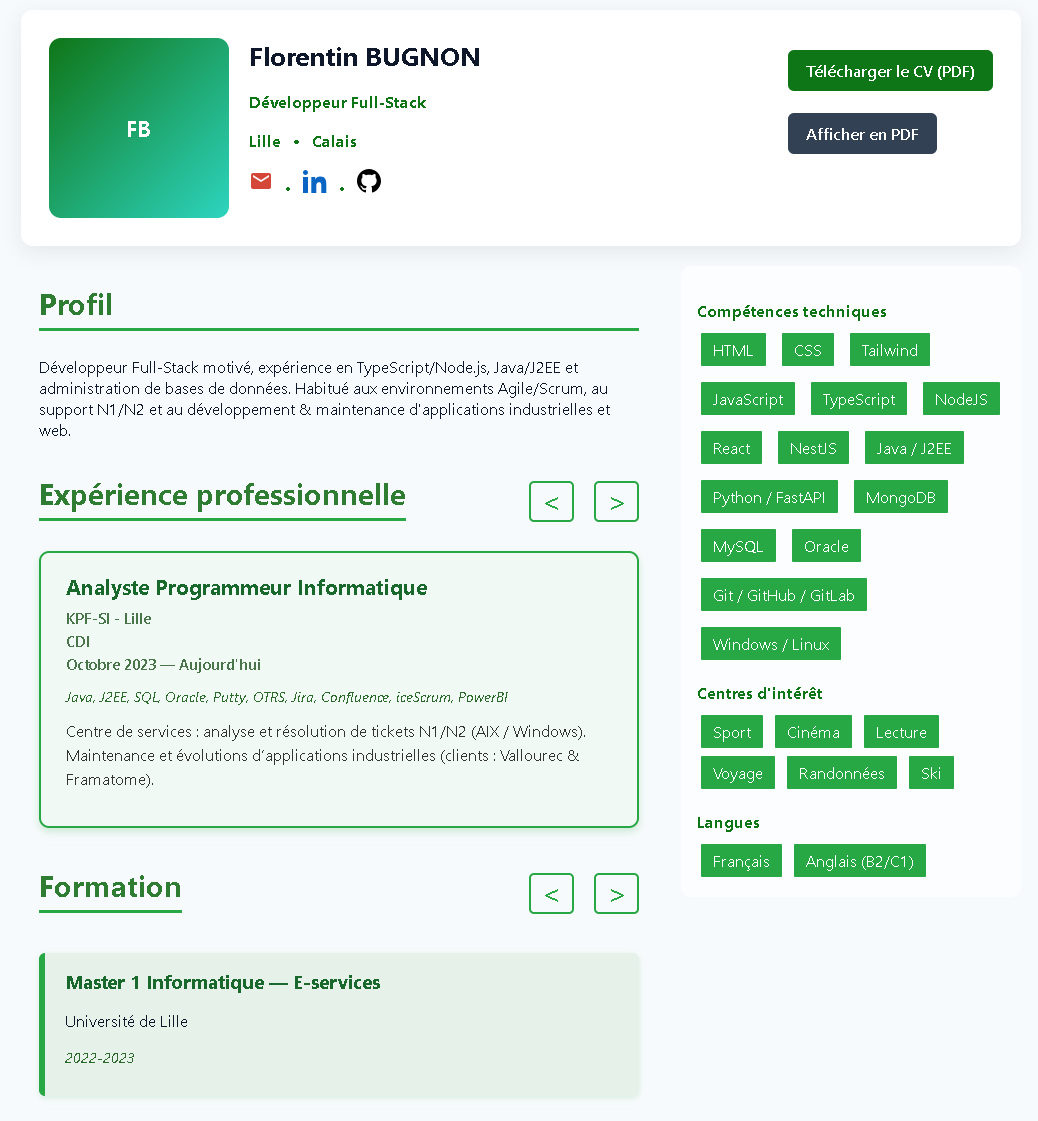
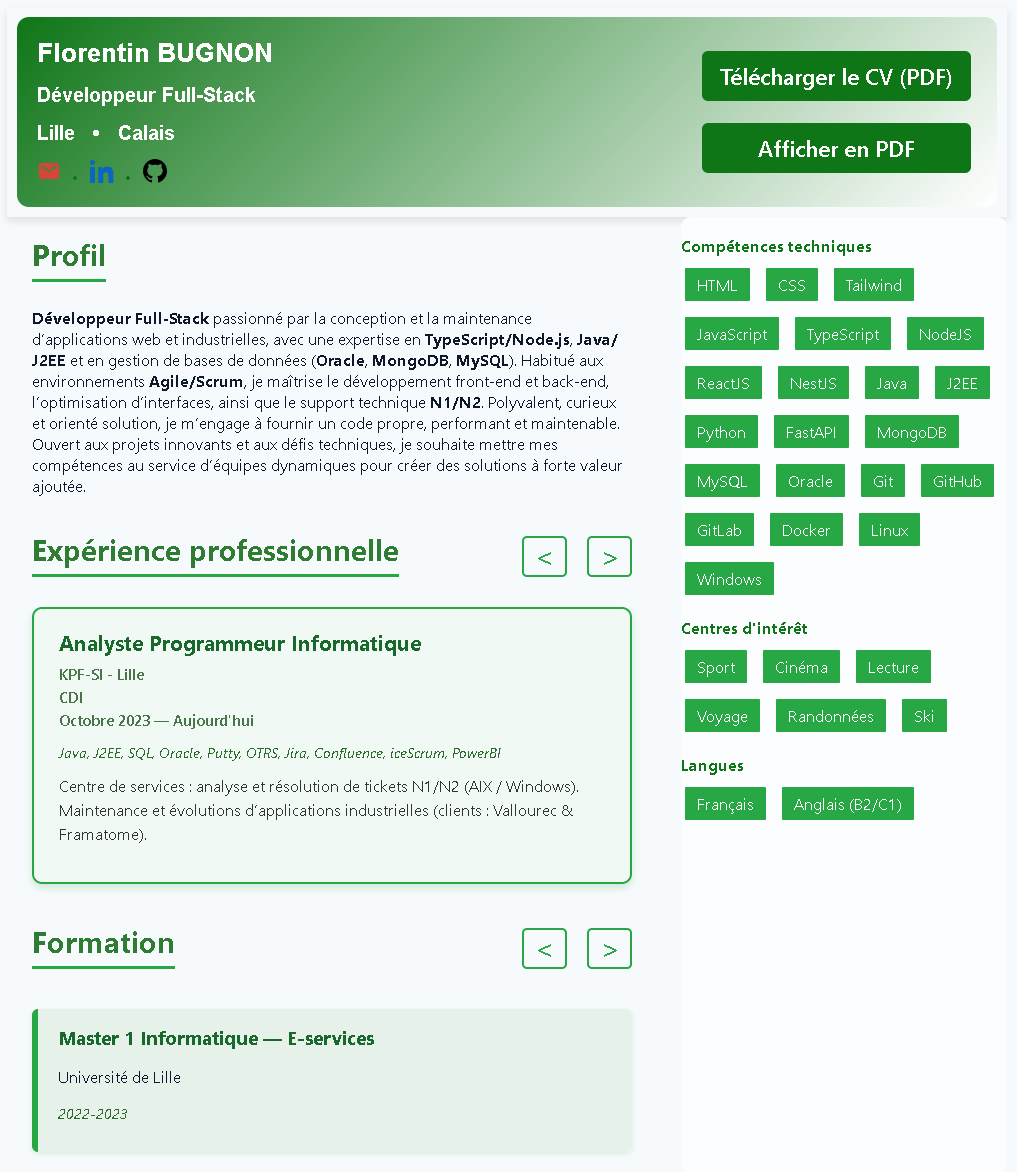
Modification de la mise en forme

Changed region(s): [[0.0, 0.0, 1.0, 0.9991], [0.4877, 0.4371, 0.6401, 0.4996], [0.6096, 0.4996, 0.6401, 0.7493]]

diff --git a/index.html b/index.html
@@ -18,12 +18,11 @@
   <div class="container">
     <div class="card">
       <header class="header">
-        <div class="avatar" aria-hidden="true">FB</div>
         <div class="general-informations">
           <h1>Florentin BUGNON</h1>
-          <h2 id="job-title">Développeur Full-Stack</p>
-          <h2 id="localisation">Lille &nbsp; • &nbsp; Calais</p>
-          <h2 class="meta contact">
+          <h3 id="job-title">Développeur Full-Stack</h3>
+          <h3 id="localisation">Lille &nbsp; • &nbsp; Calais</h3>
+          <div class="meta contact">
             <a href="mailto:florentin.bugnon@outlook.fr" target="_blank" rel="noopener" aria-label="Envoyer un email à florentin.bugnon@outlook.fr">
                 <!-- Logo mail SVG -->
                 <svg xmlns="http://www.w3.org/2000/svg" width="24" height="24" fill="#D44638" viewBox="0 0 24 24" aria-hidden="true">
@@ -44,10 +43,10 @@
                     <path d="M12 0C5.37 0 0 5.373 0 12c0 5.303 3.438 9.8 8.205 11.387.6.113.82-.258.82-.577 0-.285-.01-1.04-.015-2.04-3.338.724-4.042-1.61-4.042-1.61-.546-1.387-1.333-1.757-1.333-1.757-1.09-.745.083-.73.083-.73 1.205.084 1.84 1.237 1.84 1.237 1.07 1.834 2.807 1.304 3.492.997.108-.775.418-1.305.76-1.605-2.665-.3-5.467-1.335-5.467-5.932 0-1.31.467-2.382 1.236-3.222-.123-.303-.536-1.523.117-3.176 0 0 1.008-.322 3.3 1.23a11.52 11.52 0 013.003-.403c1.02.004 2.045.138 3.003.404 2.29-1.553 3.296-1.23 3.296-1.23.655 1.653.242 2.873.12 3.176.77.84 1.235 1.912 1.235 3.222 0 4.61-2.807 5.628-5.48 5.922.43.37.815 1.103.815 2.222 0 1.604-.015 2.896-.015 3.286 0 .32.216.694.825.576C20.565 21.795 24 17.297 24 12c0-6.627-5.373-12-12-12z"/>
                 </svg>
             </a>
-        </h2>
+          </div>
         </div>
         <aside class="download-section">
-            <a class="download" href="cv.pdf" download>Télécharger le CV (PDF)</a>
+            <a class="download" href="documents/CV.pdf" download>Télécharger le CV (PDF)</a>
             <a class="download print-btn" href="#" onclick="window.print()">Afficher en PDF</a>
         </aside>
         </div>
@@ -58,8 +57,14 @@
           <section id="profil">
             <h2>Profil</h2>
             <p>
-              Développeur Full-Stack motivé, expérience en TypeScript/Node.js, Java/J2EE et administration de bases de données.
-              Habitué aux environnements Agile/Scrum, au support N1/N2 et au développement & maintenance d'applications industrielles et web.
+              <strong>Développeur Full-Stack</strong> passionné par la conception et la maintenance d’applications web et industrielles,
+              avec une expertise en <strong>TypeScript/Node.js</strong>, <strong>Java/J2EE</strong> et en gestion de bases de données
+              (<strong>Oracle</strong>, <strong>MongoDB</strong>, <strong>MySQL</strong>).
+              Habitué aux environnements <strong>Agile/Scrum</strong>, je maîtrise le développement front-end et back-end,
+              l’optimisation d’interfaces, ainsi que le support technique <strong>N1/N2</strong>.
+              Polyvalent, curieux et orienté solution, je m’engage à fournir un code propre, performant et maintenable.
+              Ouvert aux projets innovants et aux défis techniques, je souhaite mettre mes compétences au service d’équipes dynamiques
+              pour créer des solutions à forte valeur ajoutée.
             </p>
           </section>
 
@@ -130,44 +135,53 @@
             </section>
         </main>
 
-        <!-- Colonne droite -->
-        <aside>
-          <div class="right-card">
-            <h2>Compétences techniques</h2>
-            <div class="skills">
-              <span class="chip">HTML</span>
-              <span class="chip">CSS</span>
-              <span class="chip">Tailwind</span>
-              <span class="chip">JavaScript</span>
-              <span class="chip">TypeScript</span>
-              <span class="chip">NodeJS</span>
-              <span class="chip">React</span>
-              <span class="chip">NestJS</span>
-              <span class="chip">Java / J2EE</span>
-              <span class="chip">Python / FastAPI</span>
-              <span class="chip">MongoDB</span>
-              <span class="chip">MySQL</span>
-              <span class="chip">Oracle</span>
-              <span class="chip">Git / GitHub / GitLab</span>
-              <span class="chip">Windows / Linux</span>
+        <aside id="right-card">
+            <div id="skills">
+              <h2>Compétences techniques</h2>
+              <div id="skills-list" class="items-list">
+                <span class="chip">HTML</span>
+                <span class="chip">CSS</span>
+                <span class="chip">Tailwind</span>
+                <span class="chip">JavaScript</span>
+                <span class="chip">TypeScript</span>
+                <span class="chip">NodeJS</span>
+                <span class="chip">ReactJS</span>
+                <span class="chip">NestJS</span>
+                <span class="chip">Java</span>
+                <span class="chip">J2EE</span>
+                <span class="chip">Python</span>
+                <span class="chip">FastAPI</span>
+                <span class="chip">MongoDB</span>
+                <span class="chip">MySQL</span>
+                <span class="chip">Oracle</span>
+                <span class="chip">Git</span>
+                <span class="chip">GitHub</span>
+                <span class="chip">GitLab</span>
+                <span class="chip">Docker</span>
+                <span class="chip">Linux</span>
+                <span class="chip">Windows</span>
+              </div>
             </div>
 
-            <h2>Centres d'intérêt</h2>
-            <div class="interests">
-              <span class="chip">Sport</span>
-              <span class="chip">Cinéma</span>
-              <span class="chip">Lecture</span>
-              <span class="chip">Voyage</span>
-              <span class="chip">Randonnées</span>
-              <span class="chip">Ski</span>
+            <div id="interests-">
+              <h2>Centres d'intérêt</h2>
+              <div id="interests-list" class="items-list">
+                <span class="chip">Sport</span>
+                <span class="chip">Cinéma</span>
+                <span class="chip">Lecture</span>
+                <span class="chip">Voyage</span>
+                <span class="chip">Randonnées</span>
+                <span class="chip">Ski</span>
+              </div>
             </div>
-
-            <h2>Langues</h2>
-            <div class="langues">
-              <span class="chip">Français</span>
-              <span class="chip">Anglais (B2/C1)</span>
+            
+            <div id="langues">
+              <h2>Langues</h2>
+              <div id="langues-list" class="items-list">
+                <span class="chip">Français</span>
+                <span class="chip">Anglais (B2/C1)</span>
+              </div>
             </div>
-          </div>
         </aside>
       </div>
 

diff --git a/style/header.css b/style/header.css
@@ -1,26 +1,49 @@
+.card {
+  padding: 10px;
+  box-shadow: 0 4px 8px rgba(0, 0, 0, 0.1);
+}
+
 .header {
   display: flex;
-  align-items: flex-start;      
-  justify-content: space-between; /* espace entre avatar+infos et download */
-  gap: 20px;
-  flex-wrap: wrap;          /* pour gérer petits écrans */
+  align-items: center; 
+  justify-content: space-between; 
+  flex-wrap: wrap;          
+  border-radius:12px;
+  background:linear-gradient(135deg,var(--accent),white);
+  color:white;
+  font-weight:700;
+  font-size:22px;
 }
 
 .general-informations {
-  flex: 1 1 auto;
+  flex: 1 1 auto; 
+  margin-right: 20px; 
+  white-space: nowrap; 
+  color: white; 
+  font-family: 'Inter', sans-serif; 
+  text-align: left; 
+  padding: 20px; 
+  border-radius: 8px; 
+}
+
+.general-informations h3{
+  margin:15px 0 15px;
+  font-size:20px;
+  color:var(white);
 }
 
 .download-section {
   display: flex;
-  flex-direction: column;  /* empile les boutons verticalement */
-  align-items: flex-start;   /* aligne à droite */
-  gap: 10px;               /* espace entre boutons */
-  flex-shrink: 0;          /* ne pas rétrécir */
+  flex-direction: column;  
+  text-align: center;
+  gap: 10px;               
+  flex-shrink: 0;          
+  padding: 20px; 
 }
 
 .download {
   display: inline-block;
-  margin-top: 12px;
+  margin: 6px;
   padding: 10px 18px;
   border-radius: 6px;
   background: var(--accent, #28a745);
@@ -31,26 +54,9 @@
   transition: background-color 0.3s ease;
 }
 
-
 .download:hover {
   background-color: #1e7e34;
 }
 
-.print-btn{
-  background:#334155;
-}
-
-.avatar{
-  width:180px;
-  height:180px;
-  border-radius:12px;
-  background:linear-gradient(135deg,var(--accent),#2dd4bf);
-  display:flex;
-  align-items:center;
-  justify-content:center;
-  color:white;
-  font-weight:700;
-  font-size:22px;
-}
 
 .contact a{color:var(--accent);text-decoration:none;}

diff --git a/script/experiences.js b/script/experiences.js
@@ -1,23 +1,26 @@
-const experiences = document.querySelectorAll('#experience .experiences');
-const previousExperienceBouton = document.getElementById('previousExperience');
-const nextExperienceBouton = document.getElementById('nextExperience');
-let currentExperienceIndex = 0;
+document.addEventListener("DOMContentLoaded", () => {
+  const experiences = document.querySelectorAll('#experience .experiences');
+  const previousExperienceBouton = document.getElementById('previousExperience');
+  const nextExperienceBouton = document.getElementById('nextExperience');
+  let currentExperienceIndex = 0;
 
-function showExperience(index) {
-  experiences.forEach((experience, i) => {
-    experience.classList.toggle('active', i === index);
+  function showExperience(index) {
+    experiences.forEach((experience, i) => {
+      experience.classList.toggle('active', i === index);
+    });
+  }
+
+  previousExperienceBouton.addEventListener('click', () => {
+    currentExperienceIndex = (currentExperienceIndex - 1 + experiences.length) % experiences.length;
+    showExperience(currentExperienceIndex);
   });
-}
 
-previousExperienceBouton.addEventListener('click', () => {
-  currentExperienceIndex = (currentExperienceIndex - 1 + experiences.length) % experiences.length;
+  nextExperienceBouton.addEventListener('click', () => {
+    currentExperienceIndex = (currentExperienceIndex + 1) % experiences.length;
+    showExperience(currentExperienceIndex);
+  });
+
+  // Affiche l'expérience la + récente au chargement
   showExperience(currentExperienceIndex);
 });
 
-nextExperienceBouton.addEventListener('click', () => {
-  currentExperienceIndex = (currentExperienceIndex + 1) % experiences.length;
-  showExperience(currentIcurrentExperienceIndexndex);
-});
-
-// Affiche l'expérience la + récente au chargement
-showExperience(currentExperienceIndex);

diff --git a/script/formations.js b/script/formations.js
@@ -1,23 +1,25 @@
-const formations = document.querySelectorAll("#formation .formation");
-const previousFormationBouton = document.getElementById("previousFormation");
-const nextFormationBouton = document.getElementById("nextFormation");
-let currentFormationIndex = 0;
+document.addEventListener("DOMContentLoaded", () => {
+  const formations = document.querySelectorAll("#formation .formation");
+  const previousFormationBouton = document.getElementById("previousFormation");
+  const nextFormationBouton = document.getElementById("nextFormation");
+  let currentFormationIndex = 0;
 
-function showFormation(index) {
-  formations.forEach((formation, i) => {
-    formation.classList.toggle("active", i === index);
+  function showFormation(index) {
+    formations.forEach((formation, i) => {
+      formation.classList.toggle("active", i === index);
+    });
+  }
+
+  previousFormationBouton.addEventListener("click", () => {
+    currentFormationIndex = (currentFormationIndex - 1 + formations.length) % formations.length;
+    showFormation(currentFormationIndex);
   });
-}
 
-previousFormationBouton.addEventListener("click", () => {
-  currentFormationIndex = (currentFormationIndex - 1 + formations.length) % formations.length;
+  nextFormationBouton.addEventListener("click", () => {
+    currentFormationIndex = (currentFormationIndex + 1) % formations.length;
+    showFormation(currentFormationIndex);
+  });
+
+  // Initialisation
   showFormation(currentFormationIndex);
 });
-
-nextFormationBouton.addEventListener("click", () => {
-  currentFormationIndex = (currentFormationIndex + 1) % formations.length;
-  showFormation(currentFormationIndex);
-});
-
-// Initialisation
-showFormation(currentFormationIndex);

diff --git a/style/index.css b/style/index.css
@@ -17,17 +17,11 @@ html,body{
   margin:28px auto;
   padding:28px;
 }
-.card{
-  background:var(--card);
-  border-radius:12px;
-  padding:28px;
-  box-shadow:0 6px 20px rgba(15,23,42,0.08);
-}
+
 .grid{
   display:grid;
-  grid-template-columns:1fr 340px;
+  grid-template-columns:2fr 1fr;
   gap:24px;
-  margin-top:20px;
 }
 
 h1{margin:0;font-size:26px;}
@@ -50,6 +44,7 @@ section h2 {
   border-bottom: 3px solid #28a745; /* souligné vert vif */
   padding-bottom: 6px;
   font-weight: 700;
+  width: fit-content;
 }
 
 /* Boutons de navigation entre les éléments d'une section */

diff --git a/style/aside.css b/style/aside.css
@@ -13,14 +13,14 @@
   background-color: #2e7d32; /* vert plus foncé */
 }
 
-.right-card{
+#right-card{
   background:#fbfdff;
   border-radius:10px;
-  padding:16px;
 }
 
-.skills{
-  display:flex;
-  flex-wrap:wrap;
-  gap:8px;
+
+.items-list {
+  display: flex;
+  flex-wrap: wrap;
+  gap: 8px;
 }

diff --git a/README.md b/README.md
@@ -3,3 +3,7 @@ Ce dépôt contient les fichiers sources d'un site web présentant mon CV
 
 # Aperçu
 ![alt text](documents/image.png)
+
+# TODO List
+- Rendu dynamique des expériences et formations avec un script js se basant sur les données d'un fichier .json
+- Supprimer l'entête de l'affichage pdf
